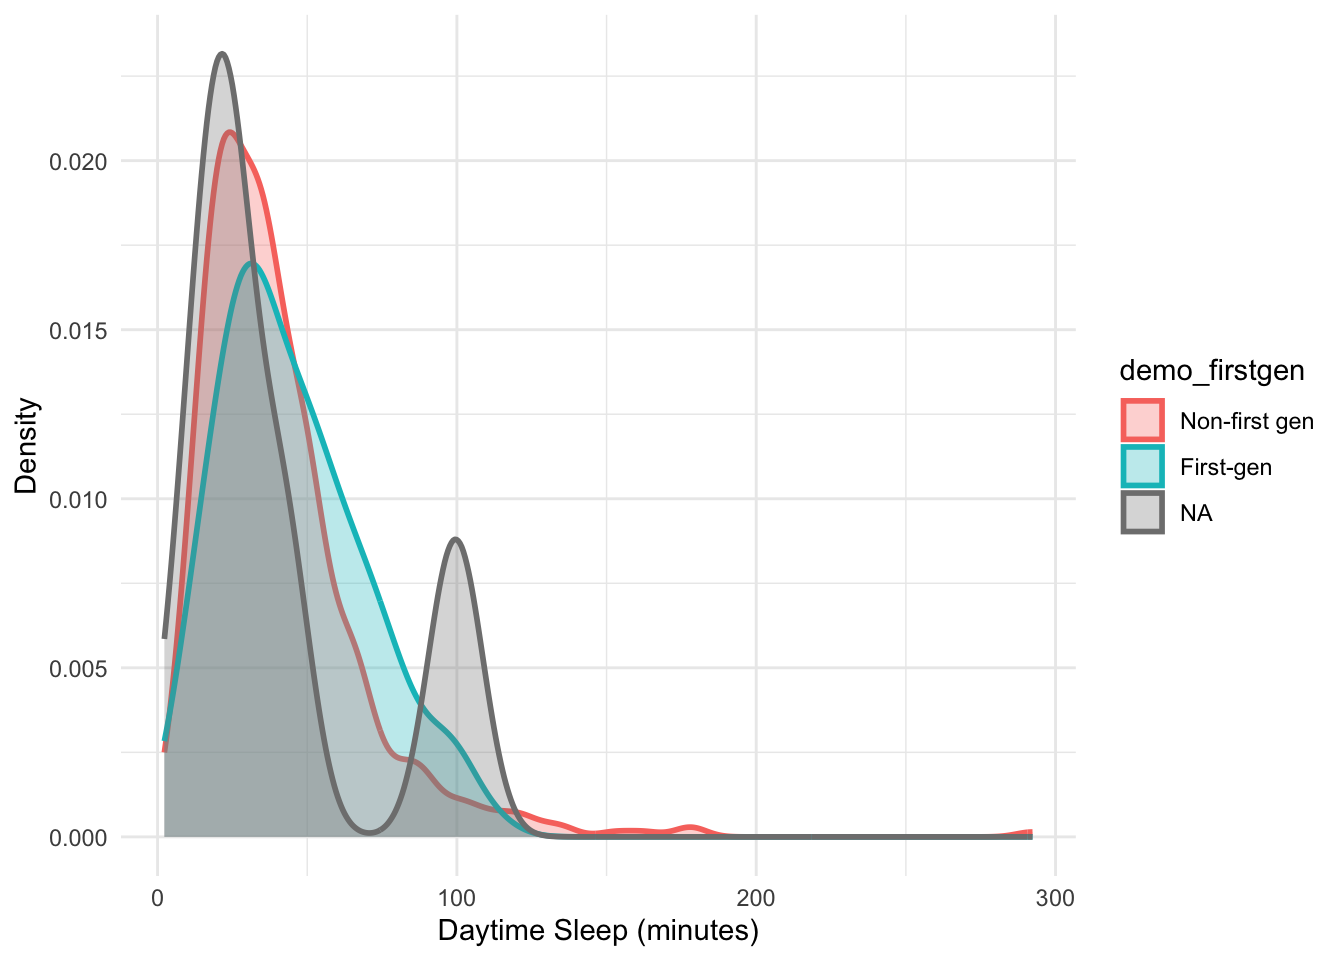
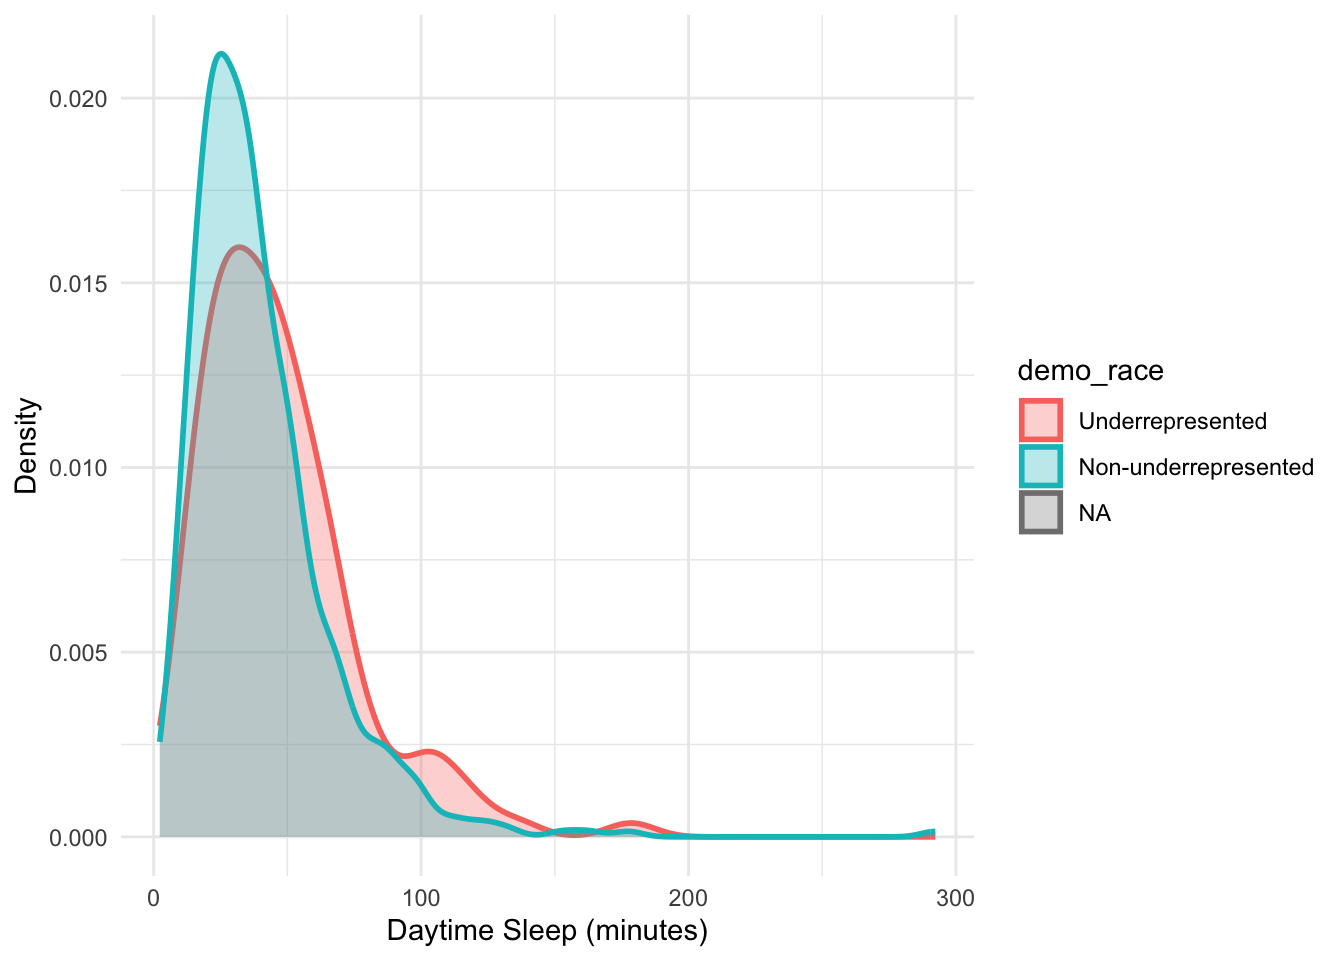
GPA for sleep metrics

diff --git a/sleep_metrics.html b/sleep_metrics.html
@@ -497,18 +497,46 @@ plot_daysleep</code></pre>
 <p>everything below here is a work in progress/experimental lol</p>
 <p>maybe some sort of heat map ??</p>
 <pre class="r"><code>
-sleep_df &lt;- sleep_df %&gt;% 
-  mutate(gpa_group = case_when(cum_gpa &lt;= 2.8 ~ &quot;Low&quot;, 
-                               cum_gpa &gt;= 3.9 ~ &quot;High&quot;,
-                               cum_gpa &gt; 2.8 &amp; cum_gpa &lt; 3.9 ~ &quot;Middle&quot;), 
-         term_group = case_when(zterm_units_zof_z &lt;= -1 ~ &quot;Heavy&quot;, 
-                                zterm_units_zof_z &gt;= 1 ~ &quot;Light&quot;, 
-                                zterm_units_zof_z &gt; -1 &amp; zterm_units_zof_z &lt; 1 ~ &quot;Average&quot;))
+# sleep_df &lt;- sleep_df %&gt;% 
+#   mutate(gpa_group = case_when(cum_gpa &lt;= 2.8 ~ &quot;Low&quot;, 
+#                                cum_gpa &gt;= 3.9 ~ &quot;High&quot;,
+#                                cum_gpa &gt; 2.8 &amp; cum_gpa &lt; 3.9 ~ &quot;Middle&quot;), 
+#          term_group = case_when(zterm_units_zof_z &lt;= -1 ~ &quot;Heavy&quot;, 
+#                                 zterm_units_zof_z &gt;= 1 ~ &quot;Light&quot;, 
+#                                 zterm_units_zof_z &gt; -1 &amp; zterm_units_zof_z &lt; 1 ~ &quot;Average&quot;))
 
-plot_totalsleep1 &lt;- sleep_df %&gt;%  
-  ggplot(aes(x = total_sleep_time, fill = gpa_group, color = gpa_group)) +
-  geom_density(alpha = 0.3, linewidth = 1) +
-  facet_grid(~term_group) +
+
+sleep_df %&gt;% ggplot(aes(x = cum_gpa, y = zterm_units_zof_z)) +
+  geom_density2d_filled(alpha = 0.8) +
+  labs(
+    x = &quot;Cumulative GPA&quot;,
+    y = &quot;Term Units (Z)&quot;
+  ) +
+  theme_minimal()
+## Warning: Removed 147 rows containing non-finite outside the scale range
+## (`stat_density2d_filled()`).</code></pre>
+<p><img src="sleep_metrics_files/figure-html/unnamed-chunk-6-1.png" width="672" /></p>
+<pre class="r"><code>
+
+sleep_df %&gt;% na.omit() %&gt;% 
+ggplot(aes(round(cum_gpa), round(zterm_units_zof_z), fill = total_sleep_time)) + 
+  geom_tile() +
+  labs(
+    title = &quot;Heatmap of Total Sleep Time&quot;,
+    x = &quot;Cumulative GPA&quot;,
+    y = &quot;Term Units (Z)&quot;,
+    fill = &quot;Sleep Time (min)&quot;
+  ) +
+  theme_minimal()</code></pre>
+<p><img src="sleep_metrics_files/figure-html/unnamed-chunk-6-2.png" width="672" /></p>
+</div>
+<div id="gender" class="section level2 tabset">
+<h2 class="tabset">Gender</h2>
+<div id="total-sleep-time-1" class="section level3 tabset">
+<h3 class="tabset">Total Sleep Time</h3>
+<pre class="r"><code>plot_totalsleep &lt;- sleep_df %&gt;% filter(!is.na(demo_gender)) %&gt;%  
+  ggplot(aes(x = total_sleep_time, fill = demo_gender, color = demo_gender)) +
+  geom_density(alpha = 0.3, linewidth = 1) + facet_grid(~university) +
   labs(x = &quot;Total Sleep Time (minutes)&quot;, y = &quot;Density&quot;) +
   theme_minimal() +
   theme(
@@ -516,12 +544,62 @@ plot_totalsleep1 &lt;- sleep_df %&gt;%
     plot.title = element_text(size = 16, face = &quot;bold&quot;, hjust = 0.5)
   )
 
-plot_totalsleep1 </code></pre>
-<p><img src="sleep_metrics_files/figure-html/unnamed-chunk-6-1.png" width="672" /></p>
+plot_totalsleep    </code></pre>
+<p><img src="sleep_metrics_files/figure-html/unnamed-chunk-7-1.png" width="672" /></p>
+</div>
+<div id="variability-in-bed-times-1" class="section level3 tabset">
+<h3 class="tabset">Variability in Bed Times</h3>
+<pre class="r"><code>plot_bedtime2 &lt;- sleep_df %&gt;% filter(!is.na(demo_gender)) %&gt;%
+  ggplot(aes(x = bedtime_mssd, fill = demo_gender, color = demo_gender)) +
+  geom_density(alpha = 0.3, linewidth = 1) + facet_grid(~university) +
+  labs(x = &quot;Mean Successive Squared Difference&quot;, y = &quot;Density&quot;) +
+  xlim(c(0,2.5))+
+  theme_minimal() +
+  theme(
+    strip.text = element_text(size = 14),
+    plot.title = element_text(size = 16, face = &quot;bold&quot;, hjust = 0.5)
+  )
+
+plot_bedtime2
+## Warning: Removed 15 rows containing non-finite outside the scale range
+## (`stat_density()`).</code></pre>
+<p><img src="sleep_metrics_files/figure-html/unnamed-chunk-8-1.png" width="672" /></p>
+</div>
+<div id="sleeping-midpoint-1" class="section level3 tabset">
+<h3 class="tabset">Sleeping Midpoint</h3>
+<pre class="r"><code>plot_midpoint &lt;- sleep_df %&gt;% filter(!is.na(demo_gender)) %&gt;%
+  ggplot(aes(x = midpoint_sleep, fill = demo_gender, color = demo_gender)) +
+  geom_density(alpha = 0.3, linewidth = 1) + facet_grid(~university) +
+  labs(x = &quot;Midpoint Sleep (minutes past 11 PM)&quot;, y = &quot;Density&quot;) +
+  theme_minimal() +
+  theme(
+    strip.text = element_text(size = 14),
+    plot.title = element_text(size = 16, face = &quot;bold&quot;, hjust = 0.5)
+  )
+
+plot_midpoint</code></pre>
+<p><img src="sleep_metrics_files/figure-html/unnamed-chunk-9-1.png" width="672" /></p>
+</div>
+<div id="daytime-sleep-1" class="section level3 tabset">
+<h3 class="tabset">Daytime Sleep</h3>
+<pre class="r"><code>plot_daysleep &lt;- sleep_df %&gt;% filter(!is.na(demo_gender)) %&gt;% 
+  ggplot(aes(x = daytime_sleep, fill = demo_gender, color = demo_gender)) +
+  geom_density(alpha = 0.3, linewidth = 1) + facet_grid(~university) +
+  labs(x = &quot;Daytime Sleep (minutes)&quot;, y = &quot;Density&quot;) +
+  theme_minimal() +
+  theme(
+    strip.text = element_text(size = 14),
+    plot.title = element_text(size = 16, face = &quot;bold&quot;, hjust = 0.5)
+  )
+
+plot_daysleep</code></pre>
+<p><img src="sleep_metrics_files/figure-html/unnamed-chunk-10-1.png" width="672" /></p>
+</div>
 </div>
 <div id="underrepresented-students" class="section level2 tabset">
 <h2 class="tabset">Underrepresented Students</h2>
-<div id="total-sleep-time-1" class="section level3 tabset">
+<p><strong>Comments</strong></p>
+<div id="total-sleep-time-2" class="section level3 tabset">
 <h3 class="tabset">Total Sleep Time</h3>
 <pre class="r"><code>plot_totalsleep &lt;- sleep_df %&gt;%  
   ggplot(aes(x = total_sleep_time, fill = demo_race, color = demo_race)) +
@@ -537,9 +615,9 @@ plot_totalsleep
 ## Warning: Groups with fewer than two data points have been dropped.
 ## Warning in max(ids, na.rm = TRUE): no non-missing arguments to max; returning
 ## -Inf</code></pre>
-<p><img src="sleep_metrics_files/figure-html/unnamed-chunk-7-1.png" width="672" /></p>
+<p><img src="sleep_metrics_files/figure-html/unnamed-chunk-11-1.png" width="672" /></p>
 </div>
-<div id="variability-in-bed-times-1" class="section level3 tabset">
+<div id="variability-in-bed-times-2" class="section level3 tabset">
 <h3 class="tabset">Variability in Bed Times</h3>
 <pre class="r"><code>plot_bedtime2 &lt;- sleep_df %&gt;%  
   ggplot(aes(x = bedtime_mssd, fill = demo_race, color = demo_race)) +
@@ -558,9 +636,9 @@ plot_bedtime2
 ## Warning: Groups with fewer than two data points have been dropped.
 ## Warning in max(ids, na.rm = TRUE): no non-missing arguments to max; returning
 ## -Inf</code></pre>
-<p><img src="sleep_metrics_files/figure-html/unnamed-chunk-8-1.png" width="672" /></p>
+<p><img src="sleep_metrics_files/figure-html/unnamed-chunk-12-1.png" width="672" /></p>
 </div>
-<div id="sleeping-midpoint-1" class="section level3 tabset">
+<div id="sleeping-midpoint-2" class="section level3 tabset">
 <h3 class="tabset">Sleeping Midpoint</h3>
 <pre class="r"><code>plot_midpoint &lt;- sleep_df %&gt;% 
   ggplot(aes(x = midpoint_sleep, fill = demo_race, color = demo_race)) +
@@ -576,9 +654,9 @@ plot_midpoint
 ## Warning: Groups with fewer than two data points have been dropped.
 ## Warning in max(ids, na.rm = TRUE): no non-missing arguments to max; returning
 ## -Inf</code></pre>
-<p><img src="sleep_metrics_files/figure-html/unnamed-chunk-9-1.png" width="672" /></p>
+<p><img src="sleep_metrics_files/figure-html/unnamed-chunk-13-1.png" width="672" /></p>
 </div>
-<div id="daytime-sleep-1" class="section level3 tabset">
+<div id="daytime-sleep-2" class="section level3 tabset">
 <h3 class="tabset">Daytime Sleep</h3>
 <pre class="r"><code>plot_daysleep &lt;- sleep_df %&gt;% 
   ggplot(aes(x = daytime_sleep, fill = demo_race, color = demo_race)) +
@@ -594,12 +672,12 @@ plot_daysleep
 ## Warning: Groups with fewer than two data points have been dropped.
 ## Warning in max(ids, na.rm = TRUE): no non-missing arguments to max; returning
 ## -Inf</code></pre>
-<p><img src="sleep_metrics_files/figure-html/unnamed-chunk-10-1.png" width="672" /></p>
+<p><img src="sleep_metrics_files/figure-html/unnamed-chunk-14-1.png" width="672" /></p>
 </div>
 </div>
 <div id="first-generation-students" class="section level2 tabset">
 <h2 class="tabset">First-Generation Students</h2>
-<div id="total-sleep-time-2" class="section level3 tabset">
+<div id="total-sleep-time-3" class="section level3 tabset">
 <h3 class="tabset">Total Sleep Time</h3>
 <pre class="r"><code>plot_totalsleep &lt;- sleep_df %&gt;%  
   ggplot(aes(x = total_sleep_time, fill = demo_firstgen, color = demo_firstgen)) +
@@ -612,9 +690,9 @@ plot_daysleep
   )
 
 plot_totalsleep    </code></pre>
-<p><img src="sleep_metrics_files/figure-html/unnamed-chunk-11-1.png" width="672" /></p>
+<p><img src="sleep_metrics_files/figure-html/unnamed-chunk-15-1.png" width="672" /></p>
 </div>
-<div id="variability-in-bed-times-2" class="section level3 tabset">
+<div id="variability-in-bed-times-3" class="section level3 tabset">
 <h3 class="tabset">Variability in Bed Times</h3>
 <pre class="r"><code>plot_bedtime2 &lt;- sleep_df %&gt;%  
   ggplot(aes(x = bedtime_mssd, fill = demo_firstgen, color = demo_firstgen)) +
@@ -630,9 +708,9 @@ plot_totalsleep    </code></pre>
 plot_bedtime2
 ## Warning: Removed 15 rows containing non-finite outside the scale range
 ## (`stat_density()`).</code></pre>
-<p><img src="sleep_metrics_files/figure-html/unnamed-chunk-12-1.png" width="672" /></p>
+<p><img src="sleep_metrics_files/figure-html/unnamed-chunk-16-1.png" width="672" /></p>
 </div>
-<div id="sleeping-midpoint-2" class="section level3 tabset">
+<div id="sleeping-midpoint-3" class="section level3 tabset">
 <h3 class="tabset">Sleeping Midpoint</h3>
 <pre class="r"><code>plot_midpoint &lt;- sleep_df %&gt;% 
   ggplot(aes(x = midpoint_sleep, fill = demo_firstgen, color = demo_firstgen)) +
@@ -645,9 +723,9 @@ plot_bedtime2
   )
 
 plot_midpoint</code></pre>
-<p><img src="sleep_metrics_files/figure-html/unnamed-chunk-13-1.png" width="672" /></p>
+<p><img src="sleep_metrics_files/figure-html/unnamed-chunk-17-1.png" width="672" /></p>
 </div>
-<div id="daytime-sleep-2" class="section level3 tabset">
+<div id="daytime-sleep-3" class="section level3 tabset">
 <h3 class="tabset">Daytime Sleep</h3>
 <pre class="r"><code>plot_daysleep &lt;- sleep_df %&gt;% 
   ggplot(aes(x = daytime_sleep, fill = demo_firstgen, color = demo_firstgen)) +
@@ -660,7 +738,7 @@ plot_midpoint</code></pre>
   )
 
 plot_daysleep</code></pre>
-<p><img src="sleep_metrics_files/figure-html/unnamed-chunk-14-1.png" width="672" /></p>
+<p><img src="sleep_metrics_files/figure-html/unnamed-chunk-18-1.png" width="672" /></p>
 </div>
 </div>
 
